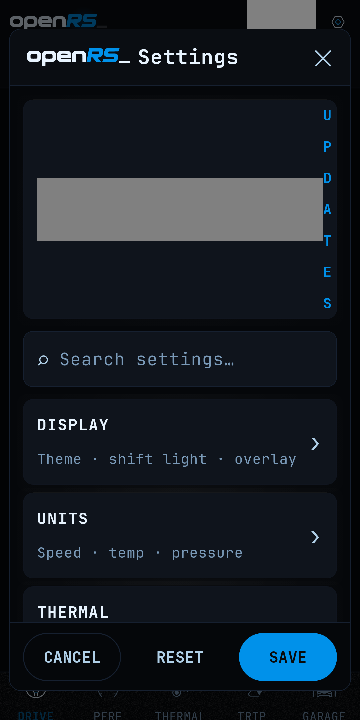
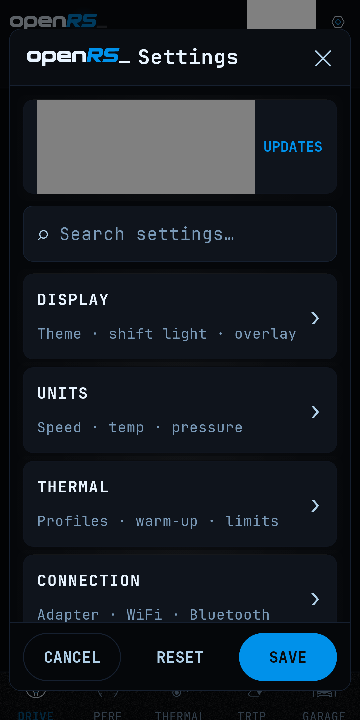
Keep Settings' UPDATES one word beside a long version label (#594)
At 360 dp the ABOUT strip's version label ("openRS_ v… · Build … · debug …")
took the row and UPDATES got a column one character wide, stacking one letter
per line at every font size.

The label now takes weight(1f) with 8 dp of end padding, so the Row measures
UPDATES (one line, no soft wrap) first and the label wraps in what is left.
AboutStrip becomes internal and takes the version label as a parameter
(default: BuildInfo.settingsLabel) so a test can draw the release label too.

AboutStripFitTest checks the production SettingsDialog and AboutStrip with the
longest debug and release labels at 360 dp, font 1.0 / 1.3 / 2.0; it failed on
staging (UPDATES on 7 lines in every case) and passes now. Settings goldens
re-recorded: the strip is shorter, so the pages below it move up.

diff --git a/android/app/src/test/java/com/openrs/dash/AboutStripFitTest.kt b/android/app/src/test/java/com/openrs/dash/AboutStripFitTest.kt
@@ -1,0 +1,153 @@
+package com.openrs.dash
+
+import android.os.Looper
+import android.view.View
+import android.view.ViewGroup
+import androidx.activity.ComponentActivity
+import androidx.activity.compose.setContent
+import androidx.compose.foundation.layout.Box
+import androidx.compose.foundation.layout.width
+import androidx.compose.material3.MaterialTheme
+import androidx.compose.material3.darkColorScheme
+import androidx.compose.ui.Modifier
+import androidx.compose.ui.platform.ViewRootForTest
+import androidx.compose.ui.semantics.SemanticsActions
+import androidx.compose.ui.semantics.SemanticsNode
+import androidx.compose.ui.semantics.SemanticsProperties
+import androidx.compose.ui.semantics.getOrNull
+import androidx.compose.ui.text.TextLayoutResult
+import androidx.compose.ui.unit.dp
+import com.openrs.dash.ui.AboutStrip
+import com.openrs.dash.ui.Accent
+import com.openrs.dash.ui.Bg
+import com.openrs.dash.ui.SettingsDialog
+import com.openrs.dash.ui.Surf
+import com.openrs.dash.ui.UserPrefsStore
+import com.openrs.dash.update.BuildInfo
+import org.junit.After
+import org.junit.Assert.assertEquals
+import org.junit.Test
+import org.junit.runner.RunWith
+import org.robolectric.Robolectric
+import org.robolectric.RobolectricTestRunner
+import org.robolectric.RuntimeEnvironment
+import org.robolectric.Shadows.shadowOf
+import org.robolectric.annotation.Config
+import org.robolectric.annotation.GraphicsMode
+import org.robolectric.shadows.ShadowChoreographer
+import java.time.Duration
+
+/**
+ * #594: at 360 dp Settings' ABOUT strip gave the version label the row and left UPDATES a column one character wide,
+ * so it stacked U / P / D / A / T / E / S down the strip's edge (debug build, every font size). At 360 dp, font 1.0 /
+ * 1.3 / 2.0: the production [SettingsDialog] (this build's debug label), and [AboutStrip] at the width the dialog gives
+ * it with the longest debug and release labels (a nightly's name). UPDATES is one line and ends inside the strip, the
+ * label ends at least [GAP_DP] before it, and the strip's touch target is at least 48 dp tall.
+ */
+@RunWith(RobolectricTestRunner::class)
+@GraphicsMode(GraphicsMode.Mode.NATIVE)
+@Config(qualifiers = "w360dp-h720dp-xxhdpi", application = OpenRSDashApp::class)
+class AboutStripFitTest {
+
+    private companion object {
+        const val GAP_DP = 4f
+        val SCALES = listOf(1.0f, 1.3f, 2.0f)
+        const val NIGHTLY = "2.2.7-nightly.20261123"
+        val LABELS = listOf(
+            "debug" to BuildInfo.settingsLabel(NIGHTLY, 99, "debug", "1549b7e", dirty = true),
+            "release" to BuildInfo.settingsLabel(NIGHTLY, 99, "release", "1549b7e", dirty = false),
+        )
+    }
+
+    @After fun tearDown() {
+        RuntimeEnvironment.setFontScale(1f)
+        UserPrefsStore.resetForTest()
+        idle(8)
+    }
+
+    private fun idle(frames: Int) = repeat(frames) { shadowOf(Looper.getMainLooper()).idleFor(Duration.ofMillis(16)) }
+
+    private fun nodes(root: SemanticsNode): List<SemanticsNode> = listOf(root) + root.children.flatMap { nodes(it) }
+
+    private fun textOf(n: SemanticsNode): String? = n.config.getOrNull(SemanticsProperties.Text)?.joinToString("") { it.text }
+
+    private fun windows(): List<View> {
+        val wmg = Class.forName("android.view.WindowManagerGlobal").getMethod("getInstance").invoke(null)
+        @Suppress("UNCHECKED_CAST")
+        return (wmg.javaClass.getDeclaredField("mViews").apply { isAccessible = true }.get(wmg) as List<View>).toList()
+    }
+
+    private fun composeRoot(v: View): ViewRootForTest? = v as? ViewRootForTest
+        ?: (v as? ViewGroup)?.let { g -> (0 until g.childCount).firstNotNullOfOrNull { composeRoot(g.getChildAt(it)) } }
+
+    /** The topmost window that holds UPDATES (Settings is a dialog window of its own). */
+    private fun stripNodes(): List<SemanticsNode> {
+        repeat(100) {
+            windows().asReversed().filter { it.isAttachedToWindow }.mapNotNull { composeRoot(it) }
+                .map { nodes(it.semanticsOwner.unmergedRootSemanticsNode).filter { n -> n.layoutInfo.isPlaced } }
+                .firstOrNull { all -> all.any { textOf(it) == "UPDATES" } }
+                ?.let { return it }
+            idle(5)
+        }
+        error("UPDATES not shown")
+    }
+
+    private fun lines(n: SemanticsNode): Int? {
+        val layout = mutableListOf<TextLayoutResult>()
+        n.config.getOrNull(SemanticsActions.GetTextLayoutResult)?.action?.invoke(layout)
+        return layout.firstOrNull()?.lineCount
+    }
+
+    /** Composes [content], checks the strip; returns its problems and the strip's width in dp. */
+    private fun check(case: String, fontScale: Float, content: @androidx.compose.runtime.Composable () -> Unit): Pair<List<String>, Float> {
+        RuntimeEnvironment.setFontScale(fontScale)
+        ShadowChoreographer.setPaused(true)
+        ShadowChoreographer.setFrameDelay(Duration.ofMillis(16))
+        val controller = Robolectric.buildActivity(ComponentActivity::class.java).setup()
+        controller.get().setContent {
+            MaterialTheme(colorScheme = darkColorScheme(background = Bg, surface = Surf, primary = Accent)) { content() }
+        }
+        try {
+            idle(60)
+            val density = controller.get().resources.displayMetrics.density
+            val all = stripNodes()
+            val out = mutableListOf<String>()
+            val updates = all.first { textOf(it) == "UPDATES" }
+            val label = all.firstOrNull { textOf(it)?.startsWith("openRS_ v") == true }
+            val row = all.filter { it.config.getOrNull(SemanticsActions.OnClick)?.label == "Show updates" }
+                .minByOrNull { it.boundsInRoot.width * it.boundsInRoot.height }
+            if (lines(updates) != 1) out += "[$case] UPDATES takes ${lines(updates)} lines"
+            if (row == null) out += "[$case] strip toggle not found"
+            if (row != null) {
+                val r = row.boundsInRoot
+                if (r.height / density < 47.5f) out += "[$case] strip target ${r.height / density} dp tall"
+                if (updates.boundsInRoot.right > r.right + 0.5f) out += "[$case] UPDATES ends past the strip"
+            }
+            if (label == null) out += "[$case] version label not found"
+            label?.let {
+                val gap = (updates.boundsInRoot.left - it.boundsInRoot.right) / density
+                if (gap < GAP_DP) out += "[$case] label ends ${"%.1f".format(gap)} dp from UPDATES"
+            }
+            println("#594 [$case] updates=${updates.boundsInRoot} label=${label?.boundsInRoot} row=${row?.boundsInRoot}")
+            return out to ((row?.boundsInRoot?.width ?: 0f) / density)
+        } finally {
+            controller.pause().stop().destroy()
+            idle(8)
+        }
+    }
+
+    @Test fun `ABOUT strip keeps UPDATES one line - 360 dp, font 1_0 1_3 2_0, debug and release labels`() {
+        val out = SCALES.flatMap { fs ->
+            val (dialog, width) = check("font $fs SettingsDialog", fs) { SettingsDialog(onDismiss = {}) }
+            dialog + LABELS.flatMap { (kind, version) ->
+                check("font $fs $kind", fs) {
+                    Box(Modifier.width(width.dp)) {
+                        AboutStrip(expanded = false, onToggle = {}, updateChannel = "beta", onChannelChange = {},
+                            versionLabel = version)
+                    }
+                }.first
+            }
+        }
+        assertEquals(emptyList<String>(), out)
+    }
+}

diff --git a/android/app/src/main/java/com/openrs/dash/ui/SettingsSheet.kt b/android/app/src/main/java/com/openrs/dash/ui/SettingsSheet.kt
@@ -1253,15 +1253,17 @@ private val ActionPadding = PaddingValues(horizontal = 8.dp, vertical = 8.dp)
 // ── Navigation affordances ───────────────────────────────────────────────────
 
 @Composable
-private fun AboutStrip(
+internal fun AboutStrip(
     expanded: Boolean,
     onToggle: () -> Unit,
     updateChannel: String,
     onChannelChange: (String) -> Unit,
+    /** This build's "2.2.7-rc.7 · Build 36 …"; a parameter so a test can draw the release build's label too (#594). */
+    versionLabel: String = com.openrs.dash.update.BuildInfo.settingsLabel,
 ) {
     val accent = LocalThemeAccent.current
     val label = buildString {
-        append("openRS_ v").append(com.openrs.dash.update.BuildInfo.settingsLabel)
+        append("openRS_ v").append(versionLabel)
         append(" · ").append(updateChannel)
     }
     Column(Modifier.fillMaxWidth().instrumentSurface(radius = 10.dp)) {
@@ -1273,13 +1275,15 @@ private fun AboutStrip(
             verticalAlignment = Alignment.CenterVertically,
             horizontalArrangement = Arrangement.SpaceBetween,
         ) {
+            // UPDATES is measured first and keeps its word; the version label wraps in the rest of the row. Unweighted,
+            // a debug build's long label took the row and UPDATES stacked one letter per line (#594).
             Text(label, fontSize = 11.sp, color = Frost, fontFamily = ShareTechMono,
-                letterSpacing = 0.06.sp)
+                letterSpacing = 0.06.sp, modifier = Modifier.weight(1f).padding(end = 8.dp))
             Text(
                 if (expanded) "HIDE" else "UPDATES",
                 fontSize = 11.sp, color = actionInk(accent),
                 fontFamily = ShareTechMono, fontWeight = FontWeight.Bold,
-                letterSpacing = 0.1.sp,
+                letterSpacing = 0.1.sp, maxLines = 1, softWrap = false,
             )
         }
         AnimatedVisibility(

diff --git a/android/changelog.d/fixed/594-settings-updates-label.md b/android/changelog.d/fixed/594-settings-updates-label.md
@@ -1,0 +1,1 @@
+- **Settings' UPDATES stays one word beside a long version label** — At 360 dp the ABOUT strip's version label took the whole row on a debug build, so UPDATES stacked one letter per line and the strip grew several lines tall. UPDATES now keeps its word and the version label wraps in the rest of the row (`AboutStripFitTest`, debug and release labels). ([#594](https://github.com/klexical/openRS_/issues/594))
